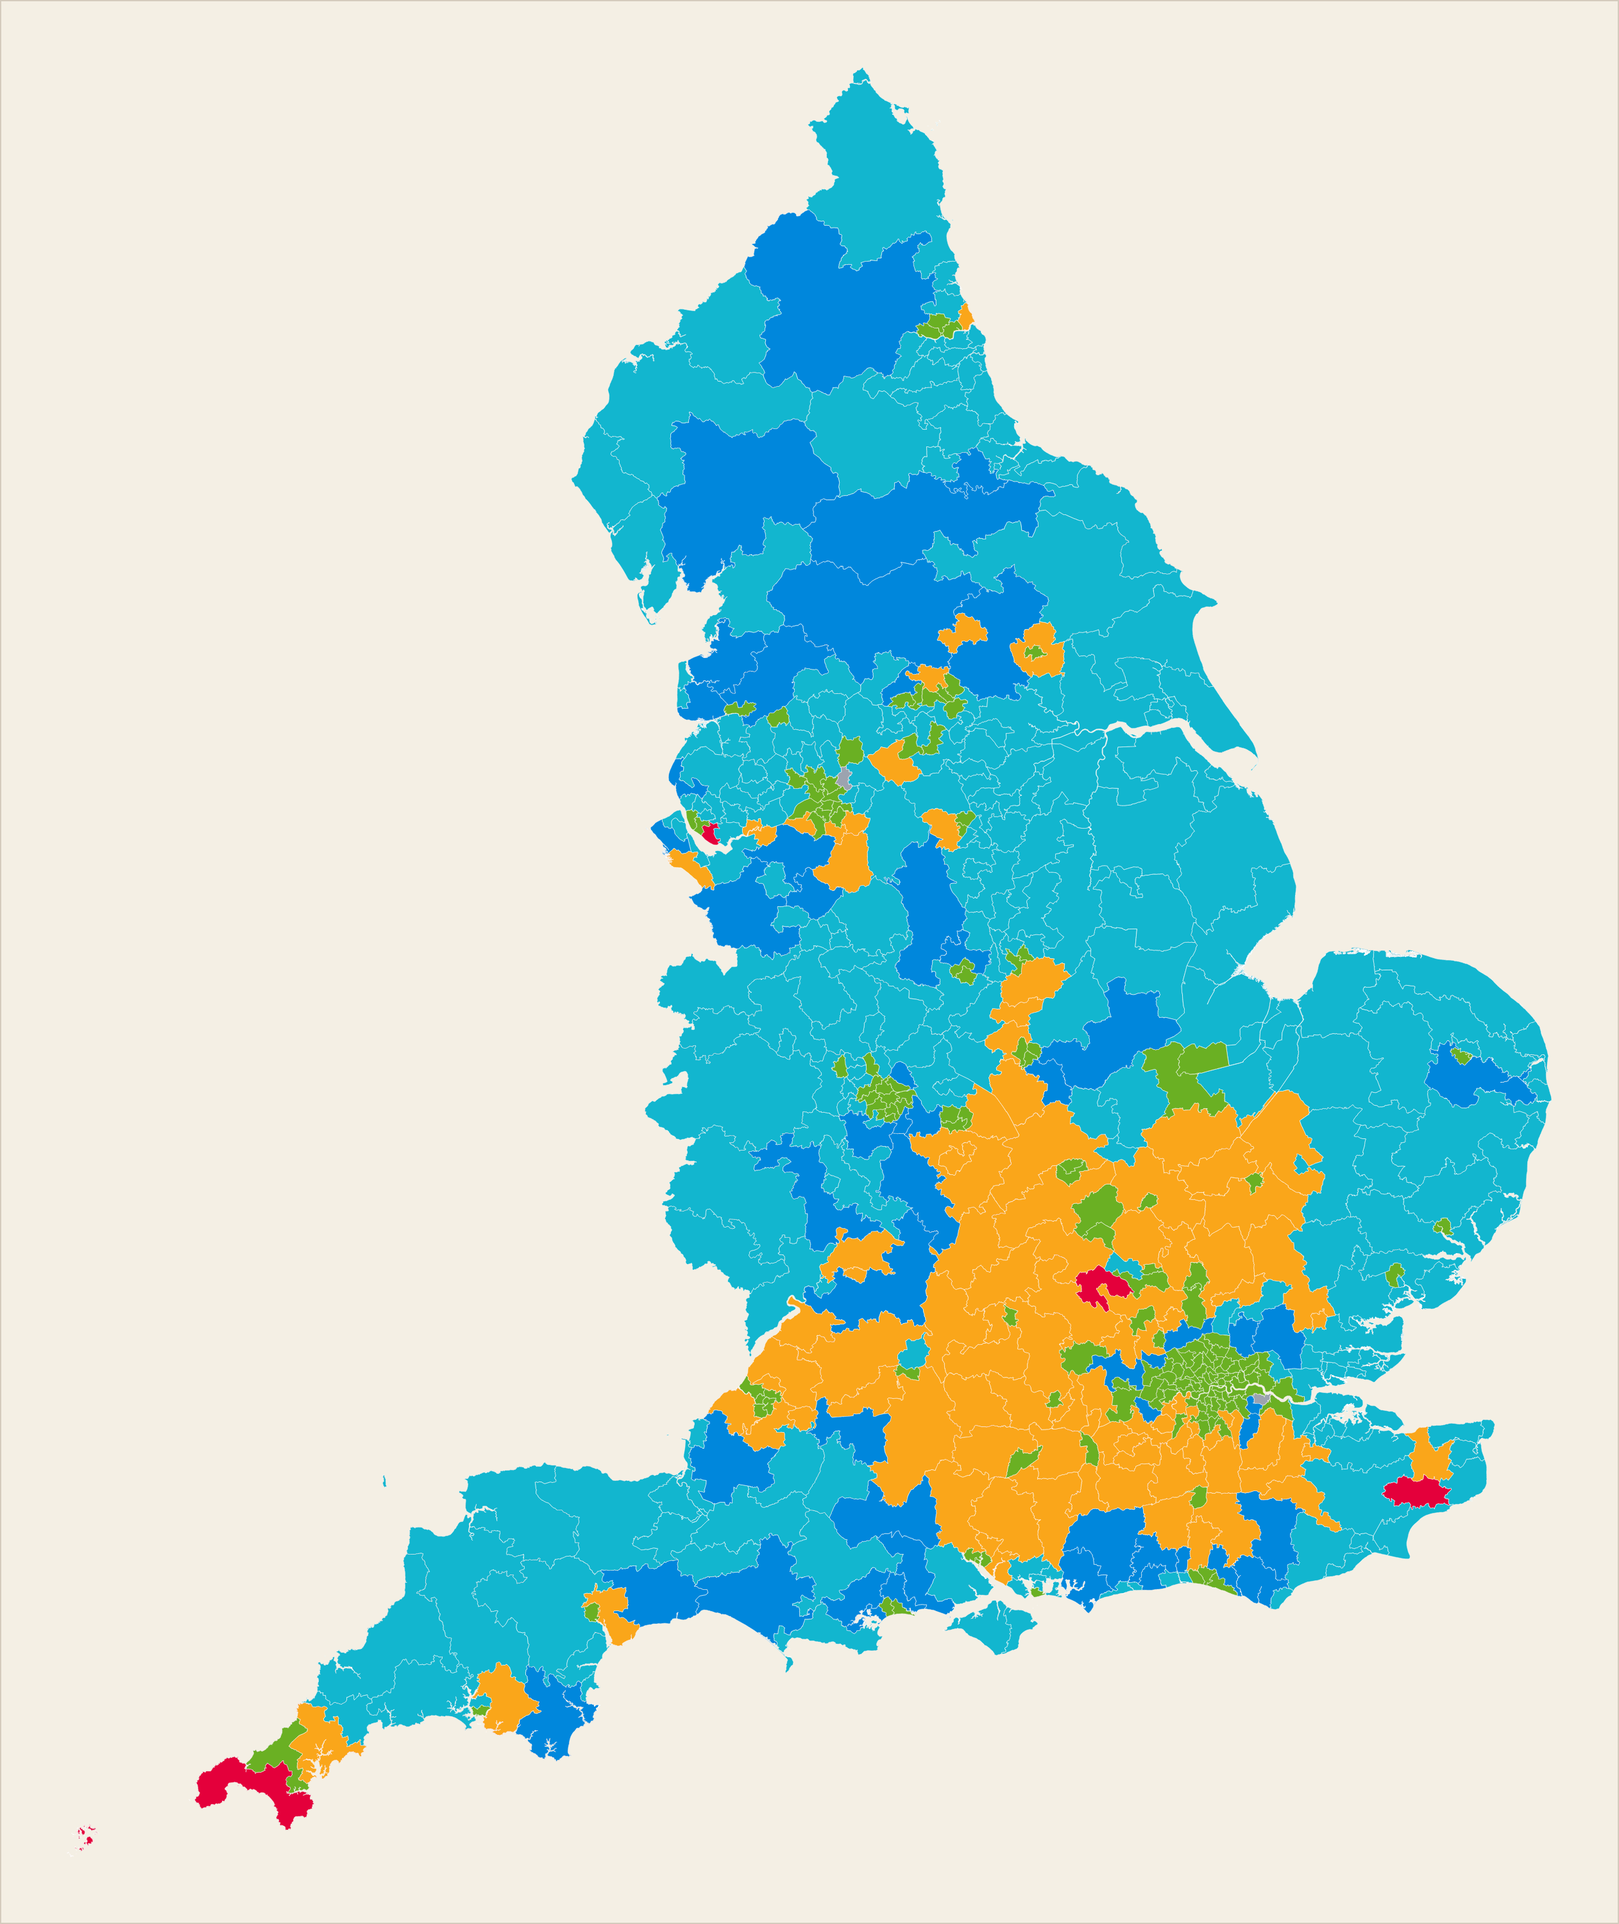
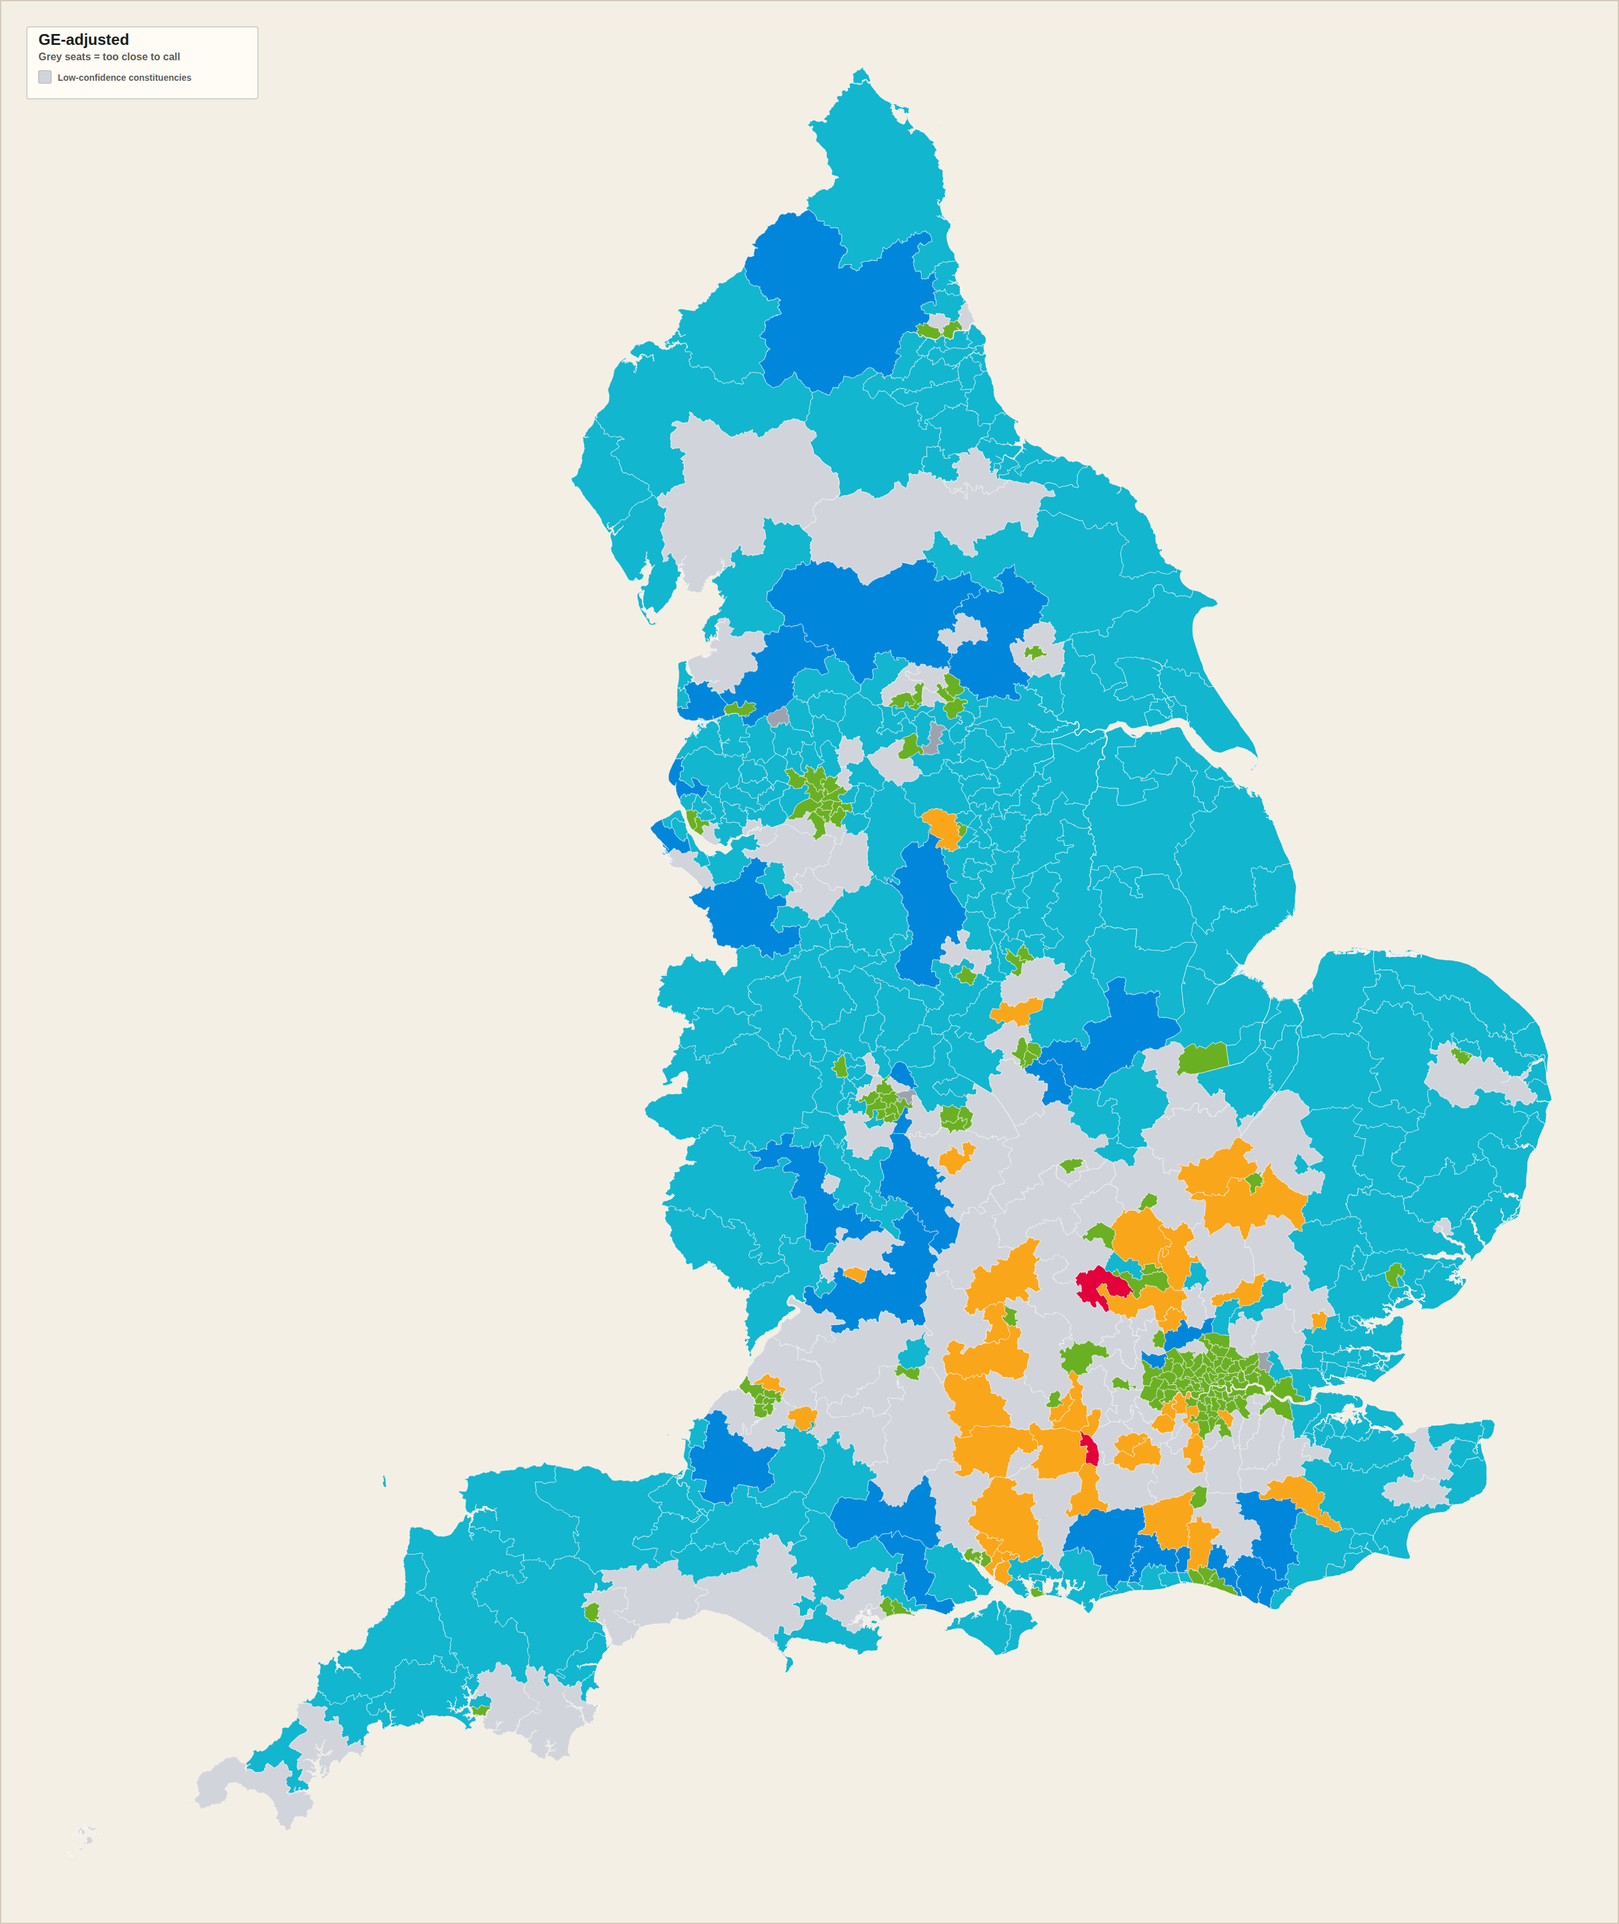
easier-browse

diff --git a/src/forecast.js b/src/forecast.js
@@ -2,6 +2,7 @@ import { buildConstituencyView } from "./lib/ge-adjustment.js";
 import { partyFamilyName } from "./lib/ge-adjustment.js";
 import { initBackToTopButton } from "./lib/back-to-top.js";
 import { rowMatchesSearch } from "./lib/list-search.js";
+import { FORECAST_TOO_CLOSE_THRESHOLD, TOO_CLOSE_TO_CALL_LABEL } from "./lib/forecast-thresholds.js";
 
 const FORECAST_URL = new URL("./data/next-ge-forecast.json", import.meta.url).href;
 
@@ -15,9 +16,20 @@ const PARTY_COLORS = {
   Unknown: "#c0c5cc",
   Other: "#d7dbdf"
 };
-const CALLABLE_THRESHOLD = 0.002;
 const PARTY_BAR_LIMIT = 5;
 const PARTY_BAR_PRESERVE = new Set(["Independent", "Unknown"]);
+const FORECAST_MAP_MODES = {
+  raw: {
+    src: "./images/forecast-projection-map-raw.png",
+    alt: "Projected constituency outcome map from the raw local-election roll-up",
+    label: "Raw local"
+  },
+  geAdjusted: {
+    src: "./images/forecast-projection-map-ge-adjusted.png",
+    alt: "Projected constituency outcome map with the GE turnout correction applied",
+    label: "GE-adjusted"
+  }
+};
 
 const METRIC_DEFINITIONS = [
   {
@@ -39,7 +51,7 @@ const METRIC_DEFINITIONS = [
       label: "Tight seats",
       getValue: (data) => {
         const rows = Array.isArray(data?.constituency_forecasts) ? data.constituency_forecasts : [];
-        return rows.filter((row) => Number(row?.forecast?.confidence || 0) <= CALLABLE_THRESHOLD).length;
+        return rows.filter((row) => Number(row?.forecast?.confidence || 0) <= FORECAST_TOO_CLOSE_THRESHOLD).length;
       }
     }
   ];
@@ -61,6 +73,8 @@ const forecastSeatBars = document.getElementById("forecast-seat-bars");
 const currentSeatBars = document.getElementById("current-seat-bars");
 const forecastAssumptions = document.getElementById("forecast-assumptions");
 const forecastUpdated = document.getElementById("forecast-updated");
+const forecastMapImage = document.getElementById("forecast-map-image");
+const forecastMapState = document.getElementById("forecast-map-state");
 const modelNotes = document.getElementById("model-notes");
 const geAdjustmentToggle = document.getElementById("ge-adjustment-toggle");
 const geAdjustmentState = document.getElementById("ge-adjustment-state");
@@ -149,9 +163,9 @@ function renderMetrics(data) {
       .map((row) => Number(row?.forecast?.confidence || 0))
       .sort((a, b) => a - b)[Math.floor(constituencies.length / 2)]
     : null;
-  const tightSeats = constituencies.filter((row) => Number(row?.forecast?.confidence || 0) <= CALLABLE_THRESHOLD).length;
+  const tightSeats = constituencies.filter((row) => Number(row?.forecast?.confidence || 0) <= FORECAST_TOO_CLOSE_THRESHOLD).length;
   const contestedWards = (Array.isArray(data?.ward_forecasts) ? data.ward_forecasts : []).filter(
-    (row) => Number(row?.confidence || 0) <= CALLABLE_THRESHOLD
+    (row) => Number(row?.confidence || 0) <= FORECAST_TOO_CLOSE_THRESHOLD
   ).length;
   const holdSeats = Number(data?.summary?.constituency_holds || 0);
   const changeSeats = Number(data?.summary?.constituency_changes || 0);
@@ -175,7 +189,7 @@ function renderMetrics(data) {
     {
       label: "Tight constituencies",
       value: formatNumber(tightSeats),
-      note: "confidence <= 0.12"
+      note: `confidence <= ${FORECAST_TOO_CLOSE_THRESHOLD.toFixed(3)}`
     },
     {
       label: "Median constituency lead",
@@ -198,18 +212,18 @@ function renderSeatBars(data) {
   const rows = Array.isArray(data?.constituency_forecasts) ? data.constituency_forecasts : [];
   const totals = {};
   for (const row of rows) {
-    const isCallable = Number(row?.forecast?.confidence || 0) > CALLABLE_THRESHOLD;
-    const party = isCallable ? (row?.forecast?.winner || "Unknown") : "Unknown";
+    const isCallable = Number(row?.forecast?.confidence || 0) > FORECAST_TOO_CLOSE_THRESHOLD;
+    const party = isCallable ? (row?.forecast?.winner || "Unknown") : TOO_CLOSE_TO_CALL_LABEL;
     totals[party] = (totals[party] || 0) + 1;
   }
   const entries = collapsePartyTotalsForBar(totals, {
     limit: PARTY_BAR_LIMIT,
-    preserve: ["Independent", "Unknown"]
+    preserve: ["Independent", TOO_CLOSE_TO_CALL_LABEL]
   });
   renderPartyBarPanel(forecastSeatBars, entries, {
     note: geAdjustedMode
-      ? "This is the GE-adjusted seat total. Low-confidence constituencies are grouped as Unknown and the smaller parties are rolled into Other."
-      : "These are forecast winners across all 543 constituencies. Low-confidence constituencies are grouped as Unknown and the smaller parties are rolled into Other.",
+      ? `This is the GE-adjusted seat total. Low-confidence constituencies are grouped as ${TOO_CLOSE_TO_CALL_LABEL} and the smaller parties are rolled into Other.`
+      : `These are forecast winners across all 543 constituencies. Low-confidence constituencies are grouped as ${TOO_CLOSE_TO_CALL_LABEL} and the smaller parties are rolled into Other.`,
     emptyMessage: "No forecast seat totals available."
   });
 }
@@ -356,22 +370,26 @@ function getWardRows() {
 }
 
 function renderConstituencyTable() {
+  const allRows = Array.isArray(forecastViewData?.constituency_forecasts) ? [...forecastViewData.constituency_forecasts] : [];
   const rows = getConstituencyRows();
+  const hasActiveFilter = selectedConstituencyParty !== "All" || constituencySearchQuery.length > 0;
   const holdCount = rows.filter((row) => row?.seat_status === "hold").length;
   const changeCount = rows.filter((row) => row?.seat_status === "change").length;
-  const tightCount = rows.filter((row) => Number(row?.forecast?.confidence || 0) <= 0.12).length;
-  constituencySummary.textContent = constituencyTableExpanded
-    ? `${formatNumber(rows.length)} constituencies shown, sorted by lead.${geAdjustedMode ? " GE-adjusted view." : " Raw local view."}`
-    : `${formatNumber(rows.length)} constituencies match the current filter${constituencySearchQuery ? ` and search "${constituencySearchQuery}"` : ""}. ${formatNumber(holdCount)} holds, ${formatNumber(changeCount)} changes, and ${formatNumber(tightCount)} tight seats. Use the button to show the full constituency list.`;
+  const tightCount = rows.filter((row) => Number(row?.forecast?.confidence || 0) <= FORECAST_TOO_CLOSE_THRESHOLD).length;
+  constituencySummary.textContent = hasActiveFilter
+    ? `${formatNumber(rows.length)} constituencies match the current filter${constituencySearchQuery ? ` and search "${constituencySearchQuery}"` : ""}. Showing the matching set.`
+    : constituencyTableExpanded
+      ? `${formatNumber(rows.length)} constituencies shown, sorted by lead.${geAdjustedMode ? " GE-adjusted view." : " Raw local view."}`
+      : `${formatNumber(rows.length)} constituencies match the current filter${constituencySearchQuery ? ` and search "${constituencySearchQuery}"` : ""}. ${formatNumber(holdCount)} holds, ${formatNumber(changeCount)} changes, and ${formatNumber(tightCount)} tight seats. Use the button to show the full constituency list.`;
   if (constituencyTableToggle) {
     constituencyTableToggle.hidden = rows.length === 0;
   }
   if (constituencyTableToggleLabel) {
     constituencyTableToggleLabel.textContent = constituencyTableExpanded
       ? "Hide list"
-      : `Show all ${formatNumber(rows.length)} constituencies`;
+      : `Show all ${formatNumber(allRows.length)} constituencies`;
   }
-  if (!constituencyTableExpanded) {
+  if (!hasActiveFilter && !constituencyTableExpanded) {
     if (constituencyTable) constituencyTable.innerHTML = "";
     return;
   }
@@ -412,7 +430,7 @@ function renderConstituencyTable() {
           if (row?.seat_status === "change") {
             return `<span class="delta-negative">Change from ${row?.current_party_label || row?.current_party || "unknown"}</span>`;
           }
-          return `<span class="delta-neutral">Unknown</span>`;
+          return `<span class="delta-neutral">${TOO_CLOSE_TO_CALL_LABEL}</span>`;
         }
       },
       {
@@ -454,22 +472,26 @@ function renderConstituencyTable() {
 }
 
 function renderWardTable() {
+  const allRows = Array.isArray(forecastData?.ward_forecasts) ? [...forecastData.ward_forecasts] : [];
   const rows = getWardRows();
+  const hasActiveFilter = selectedWardParty !== "All" || wardSearchQuery.length > 0;
   const holdCount = rows.filter((row) => row?.current_winner_party && row?.winner && partyFamilyName(row.current_winner_party) === partyFamilyName(row.winner)).length;
   const changeCount = rows.length - holdCount;
-  const tightCount = rows.filter((row) => Number(row?.confidence || 0) <= 0.12).length;
-  wardSummary.textContent = wardTableExpanded
-    ? `${formatNumber(rows.length)} wards shown, sorted by lead.`
-    : `${formatNumber(rows.length)} wards match the current filter${wardSearchQuery ? ` and search "${wardSearchQuery}"` : ""}. ${formatNumber(holdCount)} holds, ${formatNumber(changeCount)} changes, and ${formatNumber(tightCount)} tight wards. Use the button to show the full ward list.`;
+  const tightCount = rows.filter((row) => Number(row?.confidence || 0) <= FORECAST_TOO_CLOSE_THRESHOLD).length;
+  wardSummary.textContent = hasActiveFilter
+    ? `${formatNumber(rows.length)} wards match the current filter${wardSearchQuery ? ` and search "${wardSearchQuery}"` : ""}. Showing the matching set.`
+    : wardTableExpanded
+      ? `${formatNumber(rows.length)} wards shown, sorted by lead.`
+      : `${formatNumber(rows.length)} wards match the current filter${wardSearchQuery ? ` and search "${wardSearchQuery}"` : ""}. ${formatNumber(holdCount)} holds, ${formatNumber(changeCount)} changes, and ${formatNumber(tightCount)} tight wards. Use the button to show the full ward list.`;
   if (wardTableToggle) {
     wardTableToggle.hidden = rows.length === 0;
   }
   if (wardTableToggleLabel) {
     wardTableToggleLabel.textContent = wardTableExpanded
       ? "Hide list"
-      : `Show all ${formatNumber(rows.length)} wards`;
+      : `Show all ${formatNumber(allRows.length)} wards`;
   }
-  if (!wardTableExpanded) {
+  if (!hasActiveFilter && !wardTableExpanded) {
     if (wardTable) wardTable.innerHTML = "";
     return;
   }
@@ -618,9 +640,22 @@ function updateGeAdjustmentState() {
   }
 }
 
+function updateForecastMap() {
+  if (!forecastMapImage) return;
+  const modeKey = geAdjustedMode ? "geAdjusted" : "raw";
+  const mapMode = FORECAST_MAP_MODES[modeKey];
+  if (!mapMode) return;
+  forecastMapImage.src = mapMode.src;
+  forecastMapImage.alt = mapMode.alt;
+  if (forecastMapState) {
+    forecastMapState.textContent = `${mapMode.label} map. Grey seats are ${TOO_CLOSE_TO_CALL_LABEL}.`;
+  }
+}
+
 function updateForecastView() {
   forecastViewData = buildConstituencyView(forecastData, geAdjustedMode);
   updateGeAdjustmentState();
+  updateForecastMap();
   renderMetrics(forecastViewData);
   renderSeatBars(forecastViewData);
   renderCurrentSeatBars(forecastData);

diff --git a/src/forecast.html b/src/forecast.html
@@ -56,7 +56,7 @@
       <div class="table-control-row">
         <div class="selector-inline">
           <label class="select-label" for="constituency-party-select">Party:</label>
-          <select id="constituency-party-select"></select>
+          <select id="constituency-party-select" class="table-filter-select"></select>
         </div>
         <div class="table-filter-inline">
           <label class="table-filter-label" for="constituency-search">Search</label>
@@ -73,7 +73,7 @@
       <div class="table-control-row">
         <div class="selector-inline">
           <label class="select-label" for="ward-party-select">Party:</label>
-          <select id="ward-party-select"></select>
+          <select id="ward-party-select" class="table-filter-select"></select>
         </div>
         <div class="table-filter-inline">
           <label class="table-filter-label" for="ward-search">Search</label>
@@ -98,24 +98,26 @@
       </p>
     </section>
 
-    <section class="panel">
-      <h2>Model Notes</h2>
-      <div id="model-notes"></div>
-    </section>
-
     <section class="panel forecast-map-panel">
       <h2>Projected Outcome Map</h2>
+      <p class="panel-note" id="forecast-map-state"></p>
       <figure class="forecast-map-figure">
         <img
           class="forecast-map-image"
-          src="./images/forecast-projection-map.png"
-          alt="Projected constituency outcome map coloured by forecast winner"
+          id="forecast-map-image"
+          src="./images/forecast-projection-map-ge-adjusted.png"
+          alt="Projected constituency outcome map with the GE turnout correction applied"
         >
       </figure>
       <p class="panel-note">
-        Constituencies are coloured by the projected winner. Light grey means no forecast winner is available.
-        The image is generated server-side from the same forecast file used by the tables.
+        Constituencies are coloured by the projected winner. Grey seats are too close to call.
+        The image is generated server-side from the same forecast file used by the tables, and the GE correction switch above swaps between raw and GE-adjusted versions.
       </p>
+    </section>
+
+    <section class="panel">
+      <h2>Model Notes</h2>
+      <div id="model-notes"></div>
     </section>
 
     <footer class="panel forecast-footer">

diff --git a/src/spotlight.js b/src/spotlight.js
@@ -336,21 +336,24 @@ function populatePlace(place, kind, selectors) {
     const searchEl = kind === "mayor" ? gmWardsSearch : makerfieldWardsSearch;
     const filteredRows = rows.filter((row) => rowMatchesSearch(row, searchQuery));
     const summary = getWardSummary(filteredRows);
+    const hasActiveFilter = searchQuery.length > 0;
     if (summaryEl) {
-      summaryEl.textContent = expanded
-        ? `${formatNumber(summary.total)} wards shown, sorted by lead.${searchQuery ? ` Search: "${searchQuery}".` : ""}`
-        : `${formatNumber(summary.total)} wards total${searchQuery ? ` matching search "${searchQuery}"` : ""}. ${formatNumber(summary.holds)} forecast holds, ${formatNumber(summary.changes)} forecast changes, and ${formatNumber(summary.tight)} tight wards. Use the button to show the full ward list.`;
+      summaryEl.textContent = hasActiveFilter
+        ? `${formatNumber(summary.total)} wards match search "${searchQuery}". Showing the matching set.`
+        : expanded
+          ? `${formatNumber(summary.total)} wards shown, sorted by lead.`
+          : `${formatNumber(summary.total)} wards total. ${formatNumber(summary.holds)} forecast holds, ${formatNumber(summary.changes)} forecast changes, and ${formatNumber(summary.tight)} tight wards. Use the button to show the full ward list.`;
     }
     if (toggleEl) {
       toggleEl.hidden = filteredRows.length === 0;
     }
     if (toggleLabelEl) {
-      toggleLabelEl.textContent = expanded ? "Hide list" : `Show all ${formatNumber(summary.total)} wards`;
+      toggleLabelEl.textContent = expanded ? "Hide list" : `Show all ${formatNumber(rows.length)} wards`;
     }
     if (searchEl) {
       searchEl.value = searchQuery;
     }
-    if (!expanded) {
+    if (!hasActiveFilter && !expanded) {
       selectors.wards.innerHTML = "";
       return;
     }

diff --git a/src/styles.css b/src/styles.css
@@ -486,6 +486,17 @@ body {
 .table-filter-input::placeholder {
   color: rgba(24, 32, 29, 0.45);
 }
+.table-filter-select {
+  min-width: 220px;
+  max-width: 360px;
+  width: min(360px, 100%);
+  border: 1px solid var(--line-strong);
+  border-radius: 3px;
+  padding: 8px 11px;
+  background: #fffdf8;
+  color: var(--ink);
+  font: 700 13px/1.2 var(--font-ui);
+}
 #grouped-deprivation-select,
 #ward-deprivation-filter-select,
 #census-party-select {

diff --git a/src/lib/forecast-thresholds.js b/src/lib/forecast-thresholds.js
@@ -1,0 +1,2 @@
+export const FORECAST_TOO_CLOSE_THRESHOLD = 0.002;
+export const TOO_CLOSE_TO_CALL_LABEL = "too close to call";
